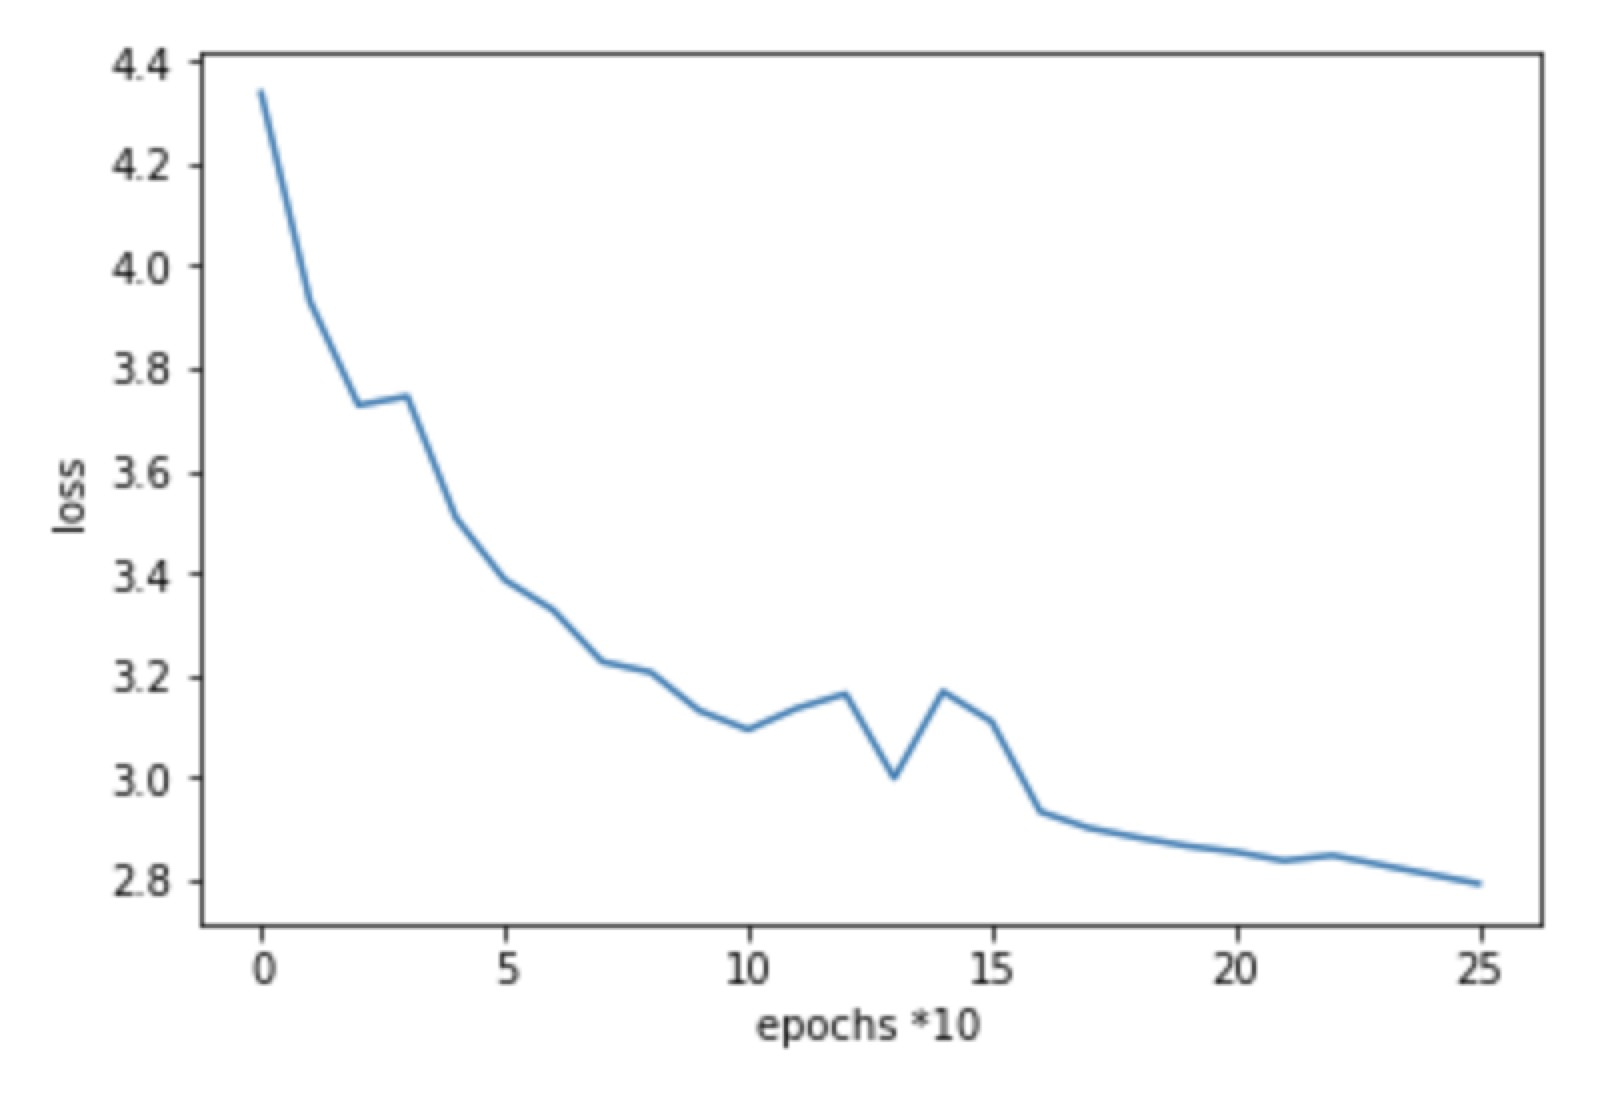
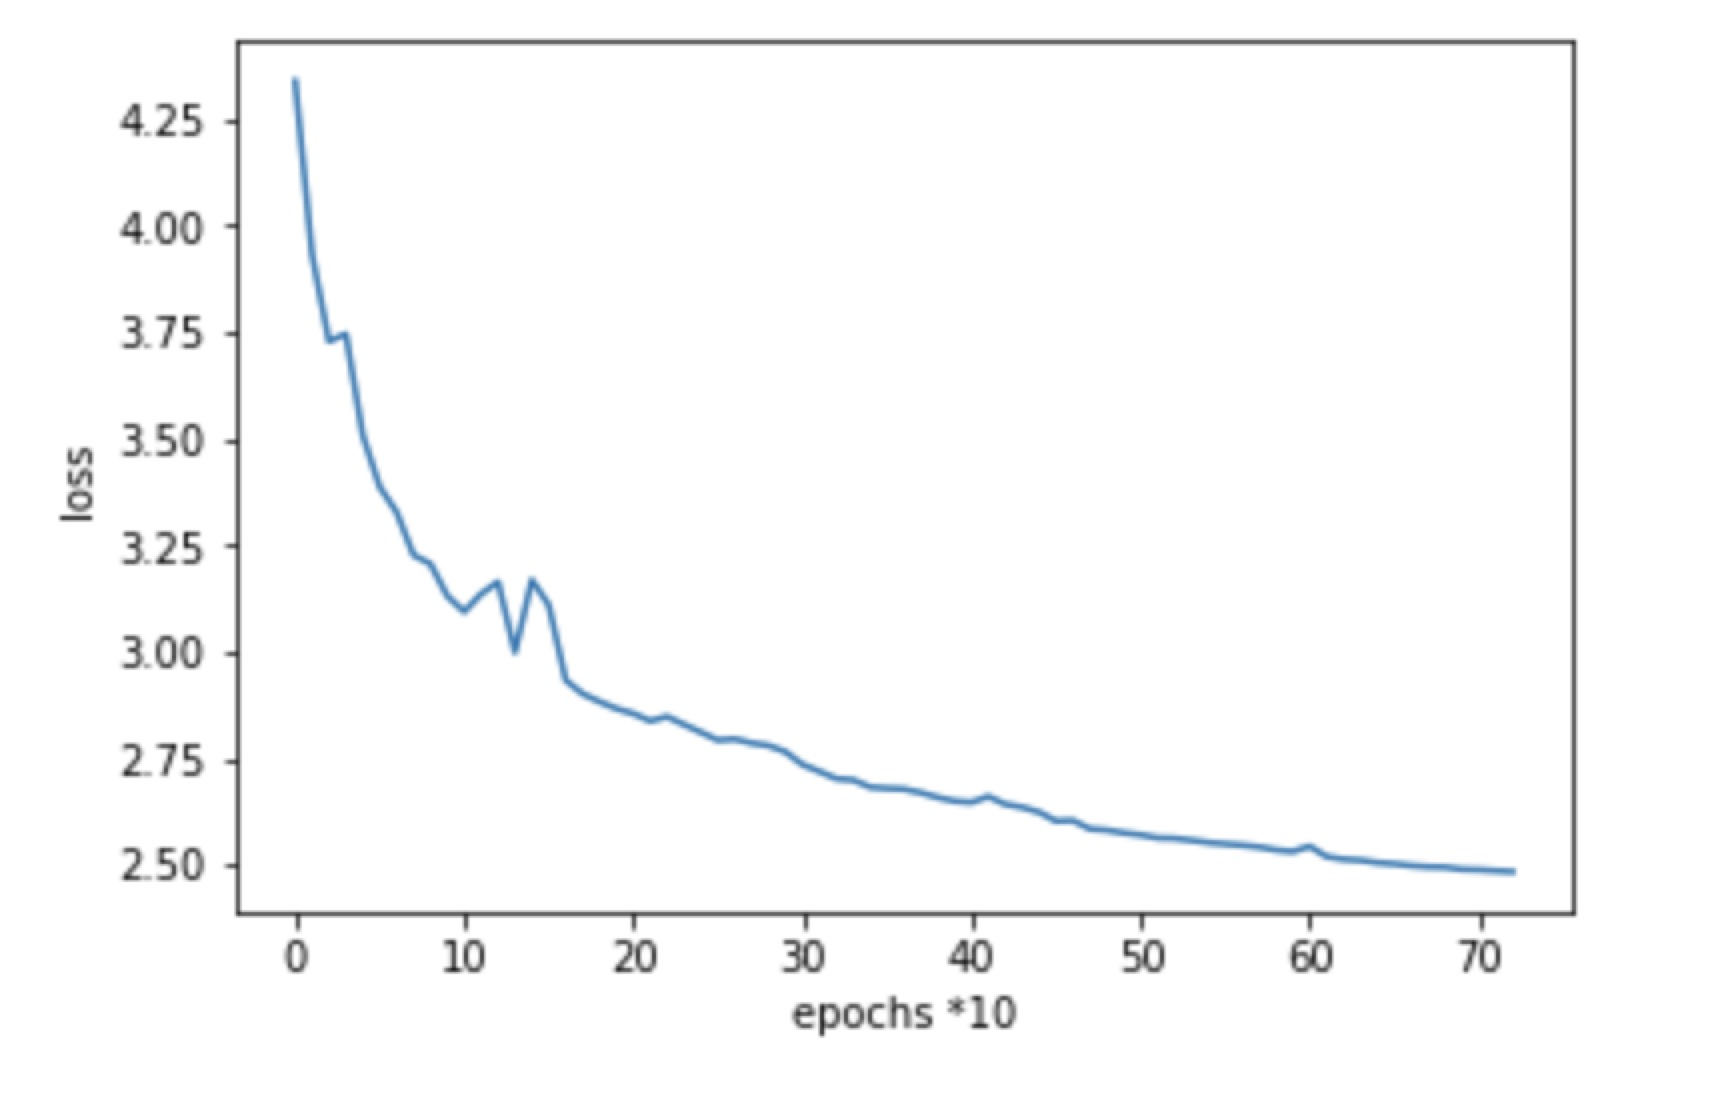
11/03

Changed region(s): [[0.0309, 0.0309, 0.9568, 0.9582]]

diff --git a/_posts/summary/2019-03-11-week-20.md b/_posts/summary/2019-03-11-week-20.md
@@ -1,0 +1,17 @@
+---
+layout: post
+title: "Week #20"
+date: 2019-03-11
+categories: [Summary of weeks]
+---
+### Finding the learning rate
+Put all the results got last week together, we get:
+<center><img src="{{ site.baseurl }}/assets/sum.jpg" height="350" width="450"></center>
+<center>Fig. 1 Loss for group 5 with different loss strategy </center>
+After 720 epoch, the minimum loss we could reach is *2.00*.
+
+Set four more experiments:
+1. slice5, initial learning rate: 0.001, step_size = 100, gamma = 0.9, 2000 epochs
+2. slice0, initial learning rate: 0.001, step_size = 100, gamma = 0.8, 1100 epochs
+3. slice1, initial learning rate: 0.001, step_size = 100, gamma = 0.8, 1100 epochs
+4. slice2, initial learning rate: 0.001, step_size = 100, gamma = 0.8, 1100 epochs
